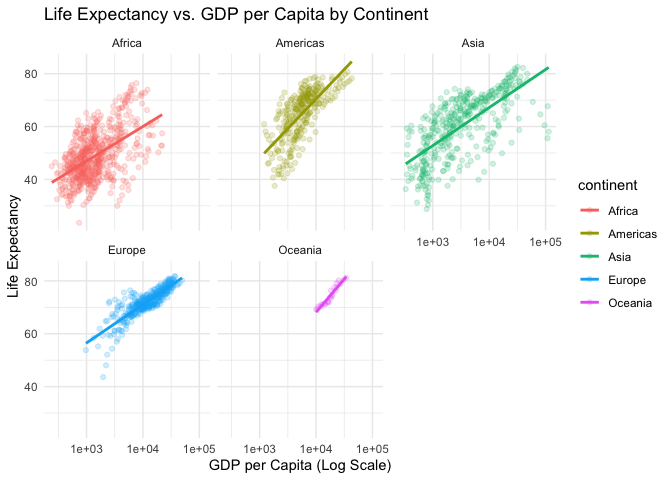
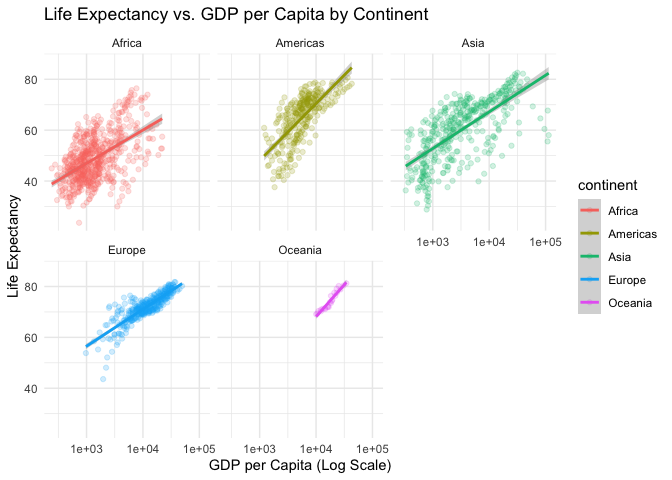
revised c04

diff --git a/challenges/c04-gapminder-assignment.md b/challenges/c04-gapminder-assignment.md
@@ -260,11 +260,11 @@ gapminder_min_year %>%
   than in other continents.
 - Africa has the lowest median GDP per capita, with most values
   concentrated below \$1000.
-- Europe’s median GDP per capita distribution is notably higher.
+- Oceania’s median GDP per capita distribution is notably higher than
+  all the other continents.
 - Asia has a greater range between the 25th and 75th percentiles
   compared to other continents, indicating a greater variation within
   the GDP per capita of countries in Asia.
-- Oceania appears to have a high and similar GDP per capita.
 - The most extreme outlier is in Asia, with a GDP per capita
   significantly higher than the rest of the dataset. A few outliers also
   exist in the Americas, likely representing wealthier countries.
@@ -432,8 +432,9 @@ gapminder %>%
   significant.
 - When looking at the growth rates, Europe shows steady and consistent
   growth.
-- Asia exhibits a strong upward trend, with rapid growth in the later
-  decades, indicating significant economic development in key countries.
+- Asia exhibits a strong upward trend from the 1950s to the 1980s with
+  rapid growth, indicating significant economic development in key
+  countries during that period.
 - The Americas show growth but at a slightly slower rate compared to
   Europe and Oceania.
 - Africa shows some growth until around the 1970s but then experiences
@@ -447,7 +448,7 @@ gapminder %>%
   ggplot(aes(x = gdpPercap, y = lifeExp, color = continent)) +
   geom_point(alpha = 0.2) +
   scale_x_log10() +
-  geom_smooth(method = "lm", se = FALSE) +
+  geom_smooth(method = "lm") +
   facet_wrap(~continent) +
   labs(
     title = "Life Expectancy vs. GDP per Capita by Continent",
@@ -501,7 +502,7 @@ gapminder %>%
 ``` r
 gapminder %>%
   ggplot(aes(x = year, y = pop, color = continent, group = continent)) +
-  geom_line(stat = "summary", fun = sum, size = 1) +
+  geom_line(stat = "summary", fun = sum, linewidth = 1) +
   labs(
     title = "Total Population Growth Over Time by Continent",
     x = "Year",
@@ -509,12 +510,6 @@ gapminder %>%
   ) +
   theme_minimal()
 ```
-
-    ## Warning: Using `size` aesthetic for lines was deprecated in ggplot2 3.4.0.
-    ## ℹ Please use `linewidth` instead.
-    ## This warning is displayed once every 8 hours.
-    ## Call `lifecycle::last_lifecycle_warnings()` to see where this warning was
-    ## generated.
 
 ![](c04-gapminder-assignment_files/figure-gfm/q5-task3-1.png)<!-- -->
 
